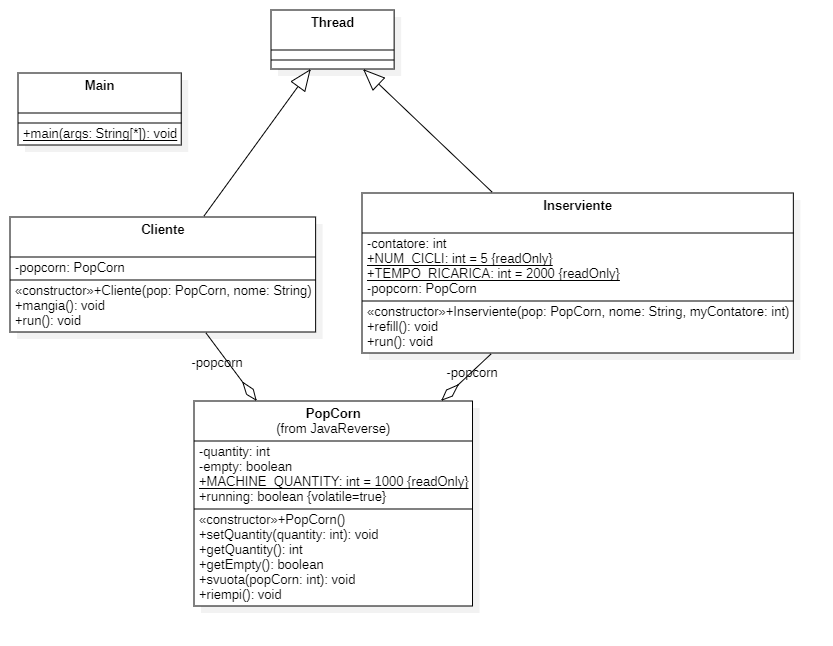
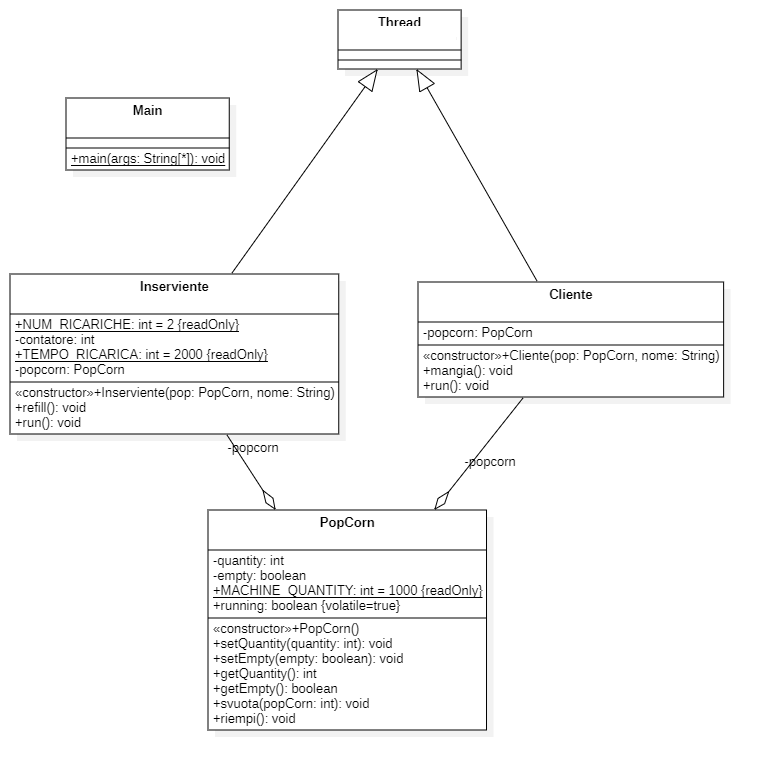
Popcorn machine finished

diff --git a/Esercizi Threads/PopCorn Machine/Inserviente.java b/Esercizi Threads/PopCorn Machine/Inserviente.java
@@ -1,7 +1,7 @@
 public class Inserviente extends Thread {
 
     private PopCorn popcorn;
-    public static final int NUM_RICARICHE = 5;
+    public static final int NUM_RICARICHE = 2;
     private int contatore;
     public static final int TEMPO_RICARICA = 2000;
 
@@ -20,31 +20,33 @@ public class Inserviente extends Thread {
                 }
 
             }
-            popcorn.riempi();
-            for (int i = 0; i < TEMPO_RICARICA; i += 1000) {
-                try {
-                    Thread.sleep(100);
-                } catch (InterruptedException e) {
-                    e.printStackTrace();
-                }
-                System.out.println(Thread.currentThread().getName() + " sta riempiendo");
-            }
-
-            System.out.println("Ho finito di ricaricare");
-
             if (contatore == 0) {
                 popcorn.running = false;
+                popcorn.setEmpty(false);
+            } else {
+                popcorn.riempi();
+                for (int i = 0; i < TEMPO_RICARICA; i += 1000) {
+                    try {
+                        Thread.sleep(100);
+                    } catch (InterruptedException e) {
+                        e.printStackTrace();
+                    }
+                    System.out.println(Thread.currentThread().getName() + " sta riempiendo");
+
+                }
+                System.out.println("Ho finito di ricaricare");
             }
-            popcorn.notifyAll();
 
             System.out.println();
+
+            popcorn.notifyAll();
         }
 
     }
 
     @Override
     public void run() {
-        for (contatore = NUM_RICARICHE; contatore >= NUM_RICARICHE; contatore--) {
+        for (contatore = NUM_RICARICHE; contatore >= 0; contatore--) {
             refill();
         }
         System.out.println("I popcorn sono finiti.\n");

diff --git a/Esercizi Threads/PopCorn Machine/Cliente.java b/Esercizi Threads/PopCorn Machine/Cliente.java
@@ -19,13 +19,15 @@ public class Cliente extends Thread {
 
             }
 
-            popcorn.svuota(100);
-            popcorn.notifyAll();
-            System.out.println("Ho mangiato 100G di popcorn");
-            try {
-                Thread.sleep(200);
-            } catch (InterruptedException e) {
-                e.printStackTrace();
+            if (popcorn.running) {
+                popcorn.svuota(100);
+                popcorn.notifyAll();
+                System.out.println("Ho mangiato 100G di popcorn");
+                try {
+                    Thread.sleep(200);
+                } catch (InterruptedException e) {
+                    e.printStackTrace();
+                }
             }
 
         }
@@ -37,6 +39,6 @@ public class Cliente extends Thread {
         while (popcorn.running)
             mangia();
 
-        System.out.println("Il cliente ha finito di mangiare.\n");
+        System.out.println("Il cliente non ha più voglia di mangiare.\n");
     }
 }

diff --git a/Esercizi Threads/PopCorn Machine/PopCorn.java b/Esercizi Threads/PopCorn Machine/PopCorn.java
@@ -15,6 +15,10 @@ public class PopCorn {
         this.quantity = quantity;
     }
 
+    public void setEmpty(boolean empty) {
+        this.empty = empty;
+    }
+
     public int getQuantity() {
         return this.quantity;
     }
